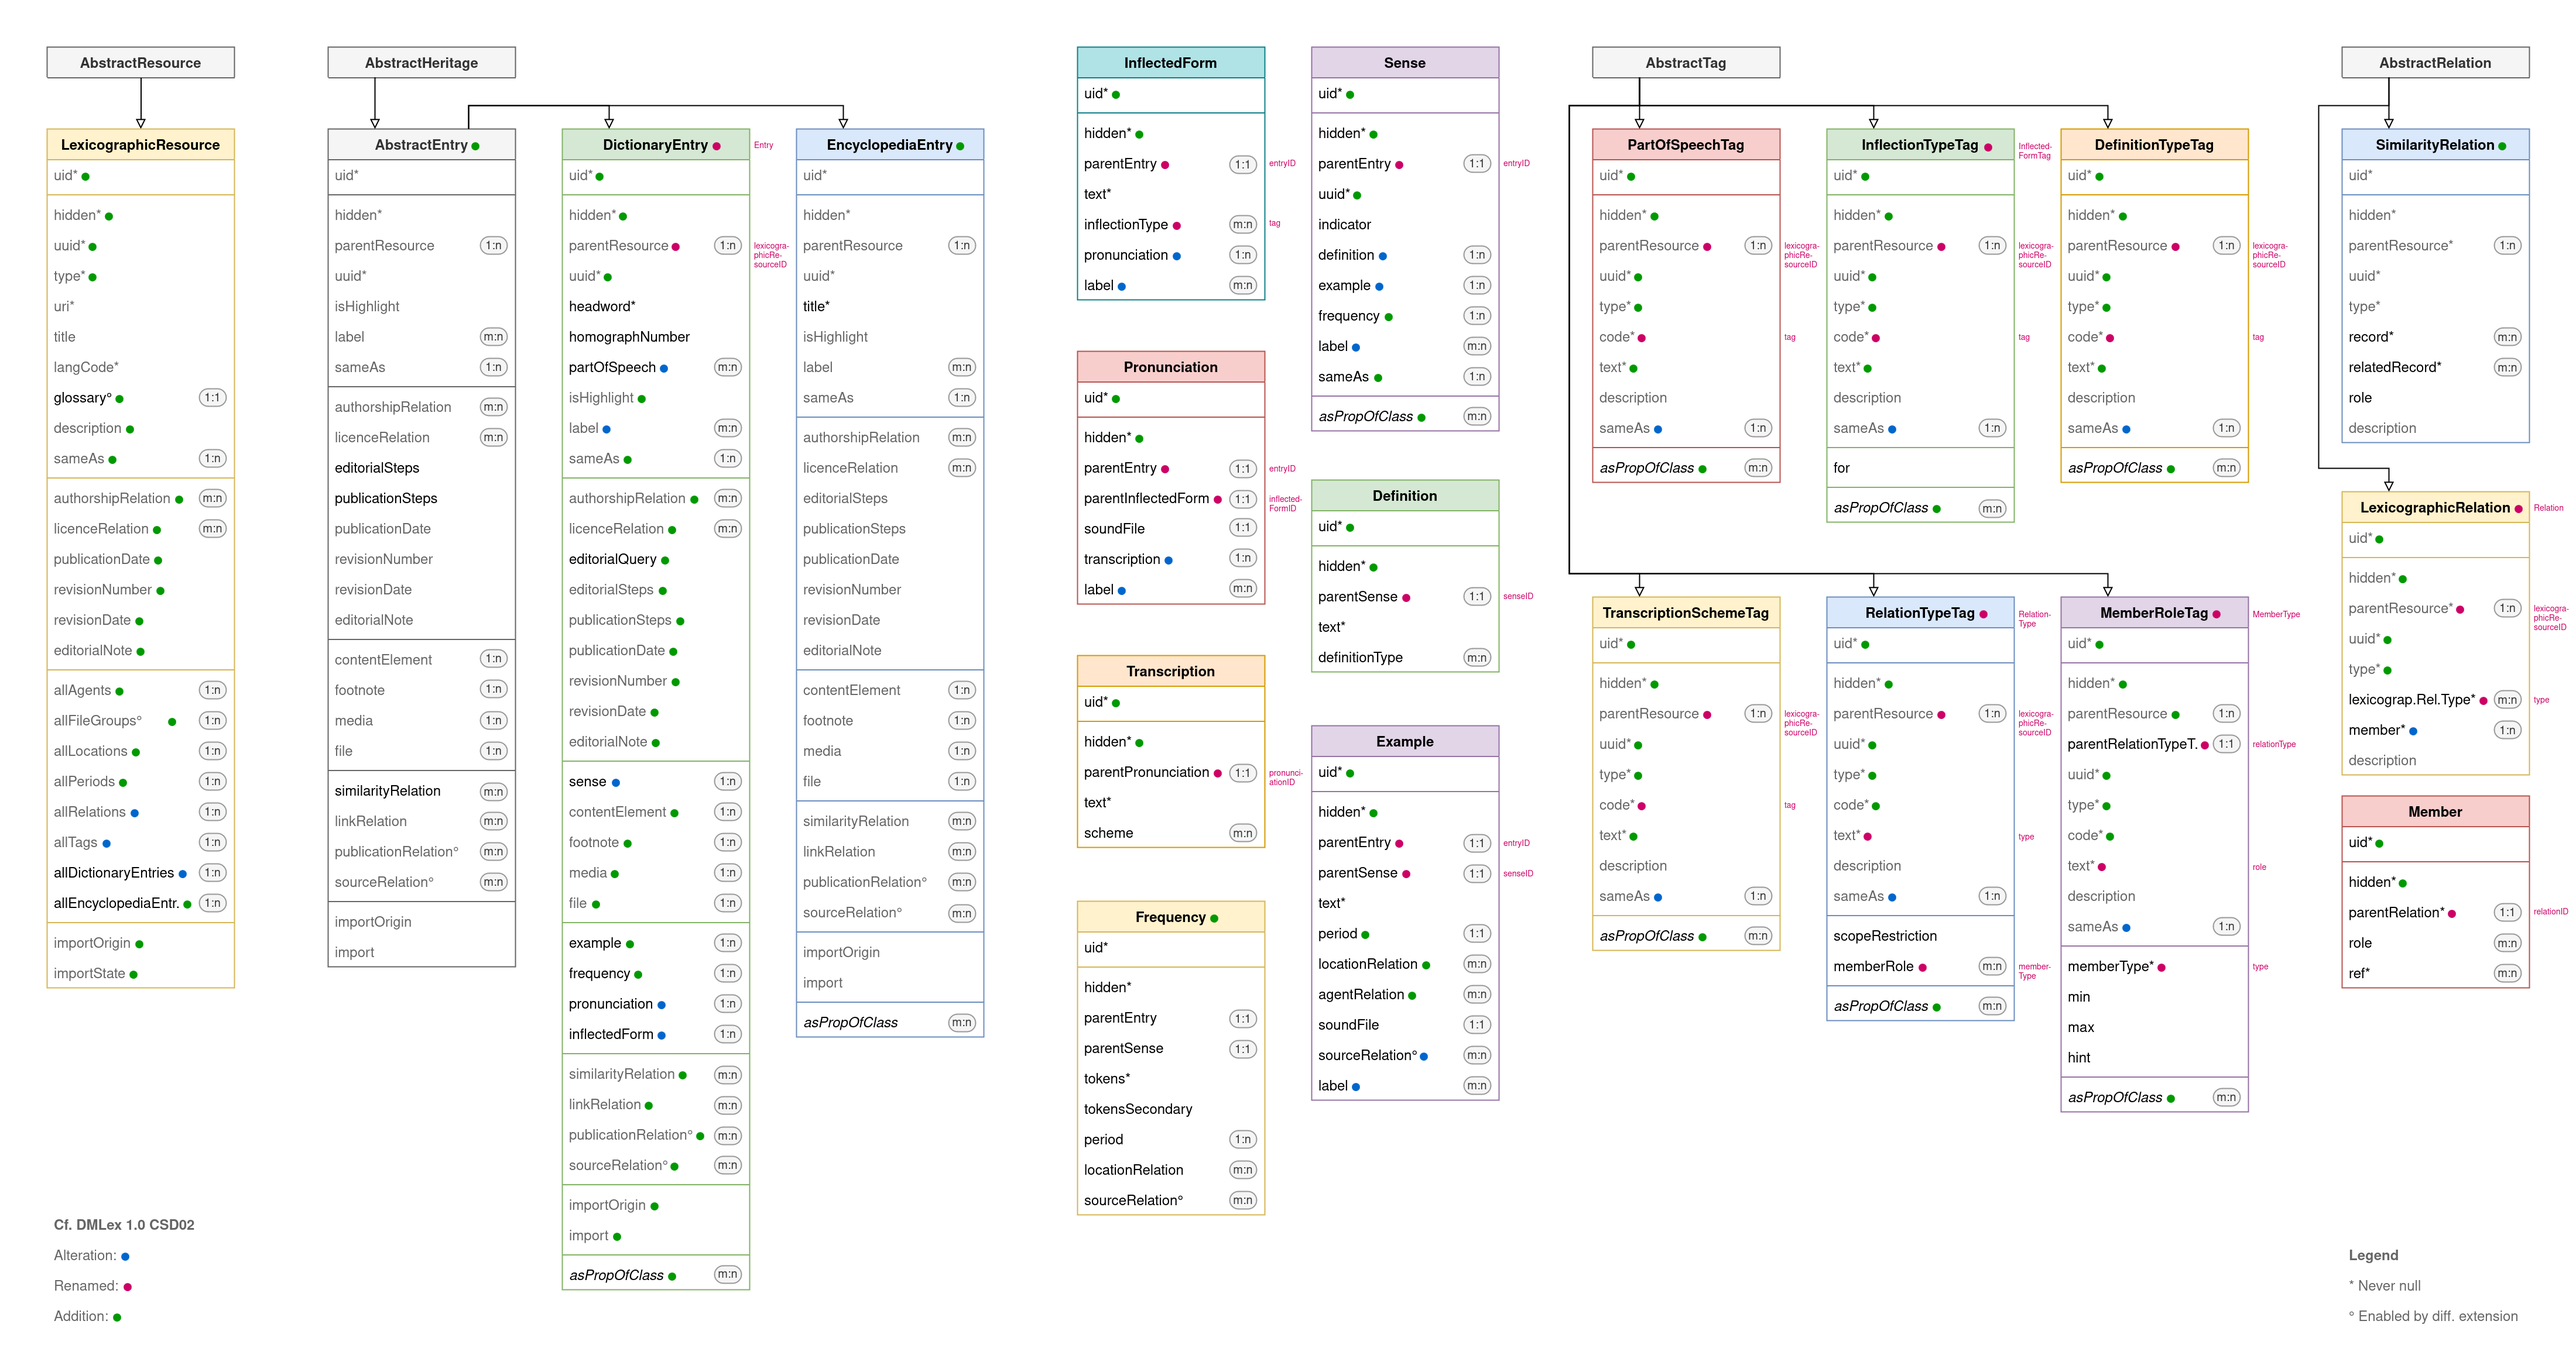
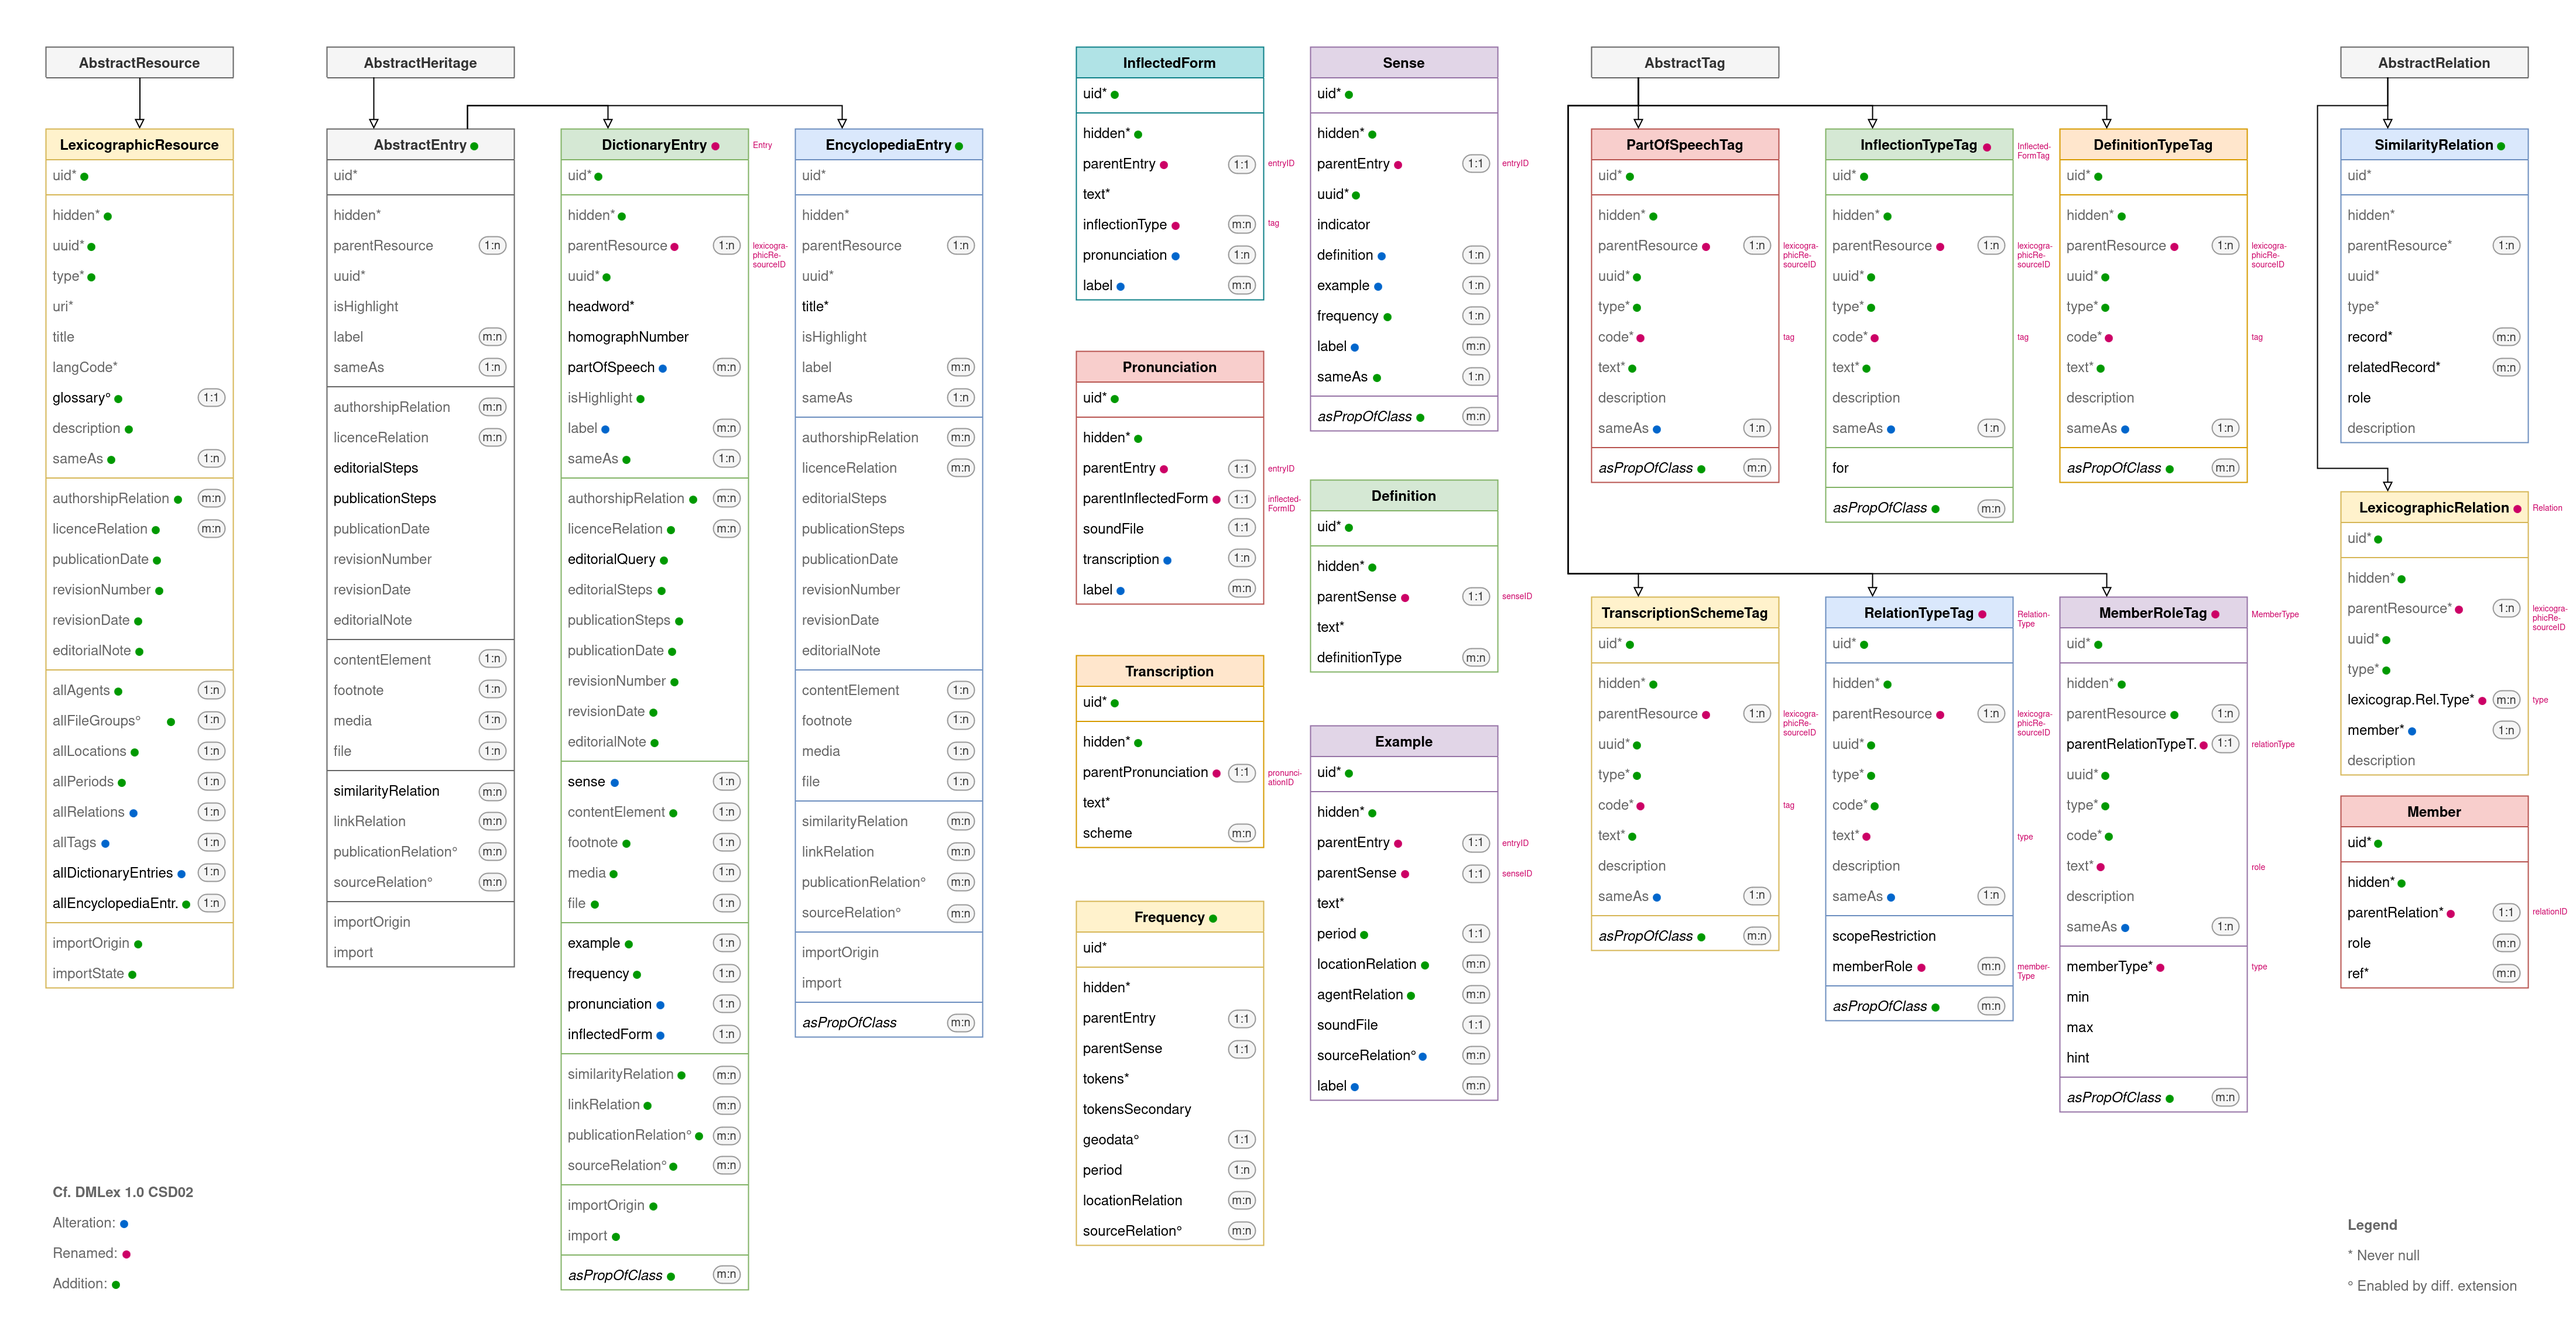
Fix a few issues issues in DictionaryEntry and MemberRoleTag

diff --git a/Configuration/TCA/Overrides/tx_chfbase_domain_model_tag.php b/Configuration/TCA/Overrides/tx_chfbase_domain_model_tag.php
@@ -82,7 +82,8 @@ defined('TYPO3') or die();
 // 'max', 'hint', 'asLabelOfDictionaryEntry', 'asLabelOfEncyclopediaEntry',
 // 'asPartOfSpeechOfDictionaryEntry', 'asInflectionTypeOfInflectedForm',
 // 'asDefinitionTypeOfDefinition', 'asSchemeOfTranscription',
-// 'asLexicographicRelationTypeOfLexicographicRelation', and 'asMemberRoleOfRelationTypeTag
+// 'asLexicographicRelationTypeOfLexicographicRelation', 'asMemberRoleOfRelationTypeTag',
+// 'asRoleOfMember', and 'asLabelOfFileGroup'
 \TYPO3\CMS\Core\Utility\ExtensionManagementUtility::addTCAcolumns('tx_chfbase_domain_model_relation',
     [
         'for' => [
@@ -458,12 +459,34 @@ defined('TYPO3') or die();
                 'readOnly' => true,
             ],
         ],
-    ]
-);
-
-// Add column 'asLabelOfFileGroup'
-\TYPO3\CMS\Core\Utility\ExtensionManagementUtility::addTCAcolumns('tx_chfbase_domain_model_tag',
-    [
+        'asRoleOfMember' => [
+            'exclude' => true,
+            'l10n_mode' => 'exclude',
+            'label' => 'LLL:EXT:chf_lex/Resources/Private/Language/locallang.xlf:object.memberRoleTag.asRoleOfMember',
+            'description' => 'LLL:EXT:chf_lex/Resources/Private/Language/locallang.xlf:object.memberRoleTag.asRoleOfMember.description',
+            'config' => [
+                'type' => 'select',
+                'renderType' => 'selectMultipleSideBySide',
+                'foreign_table' => 'tx_chflex_domain_model_member',
+                'foreign_table_where' => 'AND {#tx_chflex_domain_model_member}.{#pid}=###CURRENT_PID###',
+                'MM' => 'tx_chflex_domain_model_member_tag_role_mm',
+                'MM_opposite_field' => 'role',
+                'size' => 5,
+                'autoSizeMax' => 10,
+                'fieldControl' => [
+                    'editPopup' => [
+                        'disabled' => false,
+                    ],
+                    'addRecord' => [
+                        'disabled' => false,
+                    ],
+                    'listModule' => [
+                        'disabled' => false,
+                    ],
+                ],
+                'readOnly' => true,
+            ],
+        ],
         'asLabelOfFileGroup' => [
             'exclude' => true,
             'l10n_mode' => 'exclude',
@@ -549,6 +572,6 @@ defined('TYPO3') or die();
     'tx_chfbase_domain_model_tag',
     'hiddenParentResource,uuidType,codeText,description,sameAs,
     --div--;LLL:EXT:chf_base/Resources/Private/Language/locallang.xlf:object.generic.restrictions,memberType,minMax,hint,
-    --div--;LLL:EXT:chf_base/Resources/Private/Language/locallang.xlf:object.generic.usage,asMemberRoleOfRelationTypeTag,',
+    --div--;LLL:EXT:chf_base/Resources/Private/Language/locallang.xlf:object.generic.usage,asMemberRoleOfRelationTypeTag,asRoleOfMember,',
     'memberRoleTag'
 );

diff --git a/Configuration/TCA/tx_chflex_domain_model_dictionary_entry.php b/Configuration/TCA/tx_chflex_domain_model_dictionary_entry.php
@@ -696,7 +696,7 @@ return [
                 'type' => 'select',
                 'renderType' => 'selectMultipleSideBySide',
                 'foreign_table' => 'tx_chflex_domain_model_member',
-                'MM' => 'tx_chflex_domain_model_dictionary_entry_member_ref_mm',
+                'MM' => 'tx_chflex_domain_model_any_member_ref_mm',
                 'MM_opposite_field' => 'ref',
                 'size' => 5,
                 'autoSizeMax' => 10,
